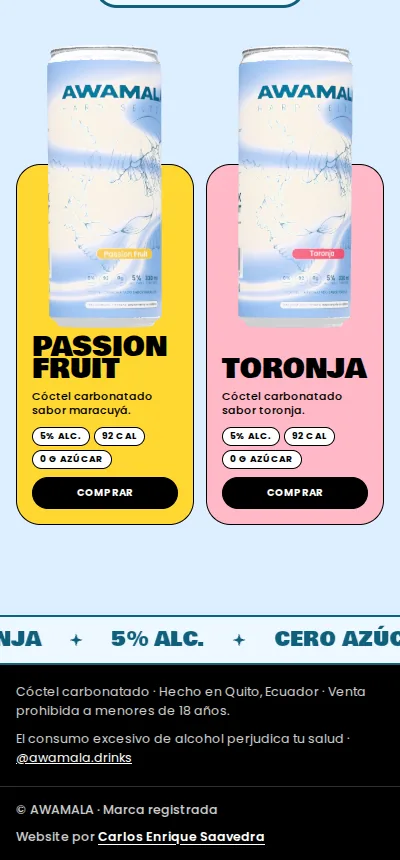
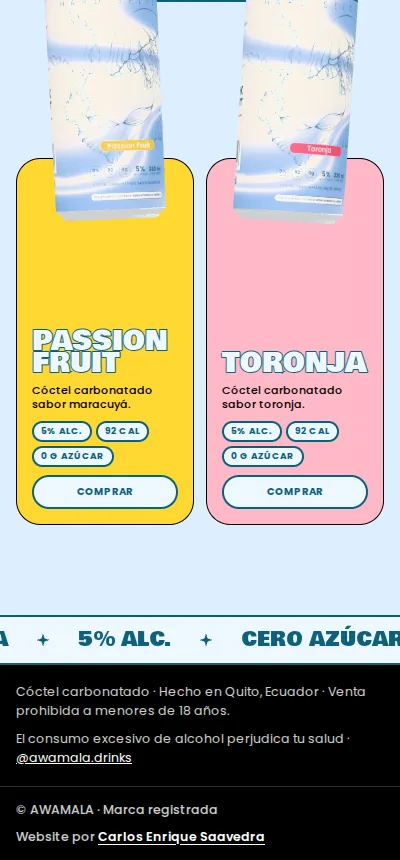
AWAMALA: títulos y tarjetas con contorno azul, medusa translúcida
- "Se reportan Awamalas", "¿Qué es un Hard Seltzer?" y nombres de sabor
  en celeste con contorno azul
- Etiquetas de sabor y botón "Comprar" con el estilo de los demás botones
- Medusa grande en celeste translúcido
- Capturas de la galería actualizadas

Claude-Session: https://claude.ai/code/session_01VQkAGi9kU4y9DGeEXDPXZg

diff --git a/awamala/index.html b/awamala/index.html
@@ -124,9 +124,9 @@ nav.top{display:flex;align-items:center;justify-content:space-between;gap:12px;p
 @keyframes pulse{0%{transform:scale(1,1)}22%{transform:scale(1.1,.84)}58%{transform:scale(.94,1.09)}100%{transform:scale(1,1)}}
 @media (prefers-reduced-motion:reduce){.jelly .bob,.jelly.pulse img,.jelly.pulse canvas{animation:none}.copy .jelly{transition:none}}
 .eyebrow{align-self:flex-start;padding:10px 18px;border:2px solid var(--teal);border-radius:1600px;background:var(--ice);color:var(--teal);font:700 13px/1 var(--body);letter-spacing:.032em}
-.copy h2{margin:0;font:900 clamp(34px,12.4cqi,84px)/.9 var(--display);   /* se ajusta al ancho de su columna: nunca invade las tarjetas */
+.copy h2{margin:0;color:var(--ice);-webkit-text-stroke:clamp(2px,.28vw,4px) var(--teal);paint-order:stroke fill;font:900 clamp(34px,12.4cqi,84px)/.9 var(--display);   /* se ajusta al ancho de su columna: nunca invade las tarjetas */
   font-stretch:125%;text-transform:uppercase;text-wrap:balance}
-.copy h3{margin:0;font:700 clamp(26px,2.8vw,40px)/1 var(--body);letter-spacing:-.01em}
+.copy h3{margin:0;color:var(--ice);-webkit-text-stroke:2px var(--teal);paint-order:stroke fill;font:700 clamp(26px,2.8vw,40px)/1 var(--body);letter-spacing:-.01em}
 .chips{display:flex;flex-wrap:wrap;gap:10px}
 .chip{padding:12px 20px;border:2px solid var(--teal);border-radius:1600px;background:var(--teal);color:var(--paper);font:700 16px/1 var(--body)}
 .chip:nth-child(1){transform:rotate(-3deg)}
@@ -144,11 +144,12 @@ nav.top{display:flex;align-items:center;justify-content:space-between;gap:12px;p
 .card .can-slot{position:absolute;left:50%;top:-190px;width:225px;height:460px;transform:translateX(-50%);pointer-events:none}
 .card .can-slot img{display:none;height:100%;margin:0 auto}
 .no3d .card .can-slot img{display:block}
-.card h3{margin:0;font:400 44px/.8 var(--card-display)}
+.card h3{margin:0;color:var(--ice);-webkit-text-stroke:2px var(--teal);paint-order:stroke fill;font:400 44px/.8 var(--card-display)}
 .card p{margin:0;font:500 14px/1.35 var(--body)}
 .specs{display:flex;flex-wrap:wrap;gap:6px;margin:0;padding:0;list-style:none}
-.specs li{padding:6px 12px;border:1px solid var(--ink);border-radius:1600px;background:var(--paper);font:700 12px/1 var(--body);letter-spacing:.03em}
-.card .cta{min-height:0;padding:15px 24px}
+.specs li{padding:6px 12px;border:2px solid var(--teal);border-radius:1600px;background:var(--ice);color:var(--teal);font:700 12px/1 var(--body);letter-spacing:.03em}
+.card .cta{min-height:0;padding:15px 24px;border:2px solid var(--teal);background:var(--ice);color:var(--teal)}
+.card .cta:hover{background:var(--teal);color:var(--ice)}
 /* teléfono: las dos tarjetas lado a lado, escaladas en proporción (≈0.61 a 400 px) */
 @media (max-width:700px){
   .cards{flex-wrap:nowrap;gap:12px;padding-top:29vw}
@@ -428,6 +429,16 @@ Promise.all([load('models/lata_passion.glb.txt'), load('models/lata_toronja.glb.
   loadingEl.classList.add('done');
 }).catch((e) => { console.error(e); fail(); });
 
+/* medusa translúcida en celeste/azul de la marca (la textura se usa solo como relieve de luz) */
+function glassJelly(o, map, strength){
+  const m = new THREE.MeshPhysicalMaterial({
+    color: 0x9fd4f0, emissive: new THREE.Color(0x4fa9d6), emissiveMap: map, emissiveIntensity: strength,
+    roughness: 0.25, metalness: 0, transmission: 0, clearcoat: 0.6, clearcoatRoughness: 0.2,
+    transparent: true, opacity: 0.55, depthWrite: false, side: THREE.DoubleSide
+  });
+  o.material = m; o.renderOrder = 2;
+}
+
 /* medusa 3D girando 360° dentro del círculo del logo de la barra */
 function startMark(){
   const cv = document.getElementById('mark3d');
@@ -470,7 +481,7 @@ function startBigJelly(){
   function fit(){ const w = cv.clientWidth || 400, h = cv.clientHeight || 350; jr.setPixelRatio(Math.min(devicePixelRatio, 2)); jr.setSize(w, h, false); jc.aspect = w / h; jc.updateProjectionMatrix(); }
   load('models/medusa.glb.txt').then((g) => {
     const j = g.scene, map = tex('img/tex_medusa.jpg');
-    j.traverse((o) => { if (o.isMesh) { o.material.map = map; o.material.emissive = new THREE.Color(0xff9ccf); o.material.emissiveMap = map; o.material.emissiveIntensity = 0.28; o.material.envMapIntensity = 0.8; o.material.needsUpdate = true; } });
+    j.traverse((o) => { if (o.isMesh) glassJelly(o, map, 0.35); });
     const box = new THREE.Box3().setFromObject(j), c = box.getCenter(new THREE.Vector3()), sz = box.getSize(new THREE.Vector3());
     const holder = new THREE.Group(); j.position.sub(c); holder.add(j);
     holder.scale.setScalar(3.1 / Math.max(sz.x, sz.y, sz.z)); js.add(holder);
